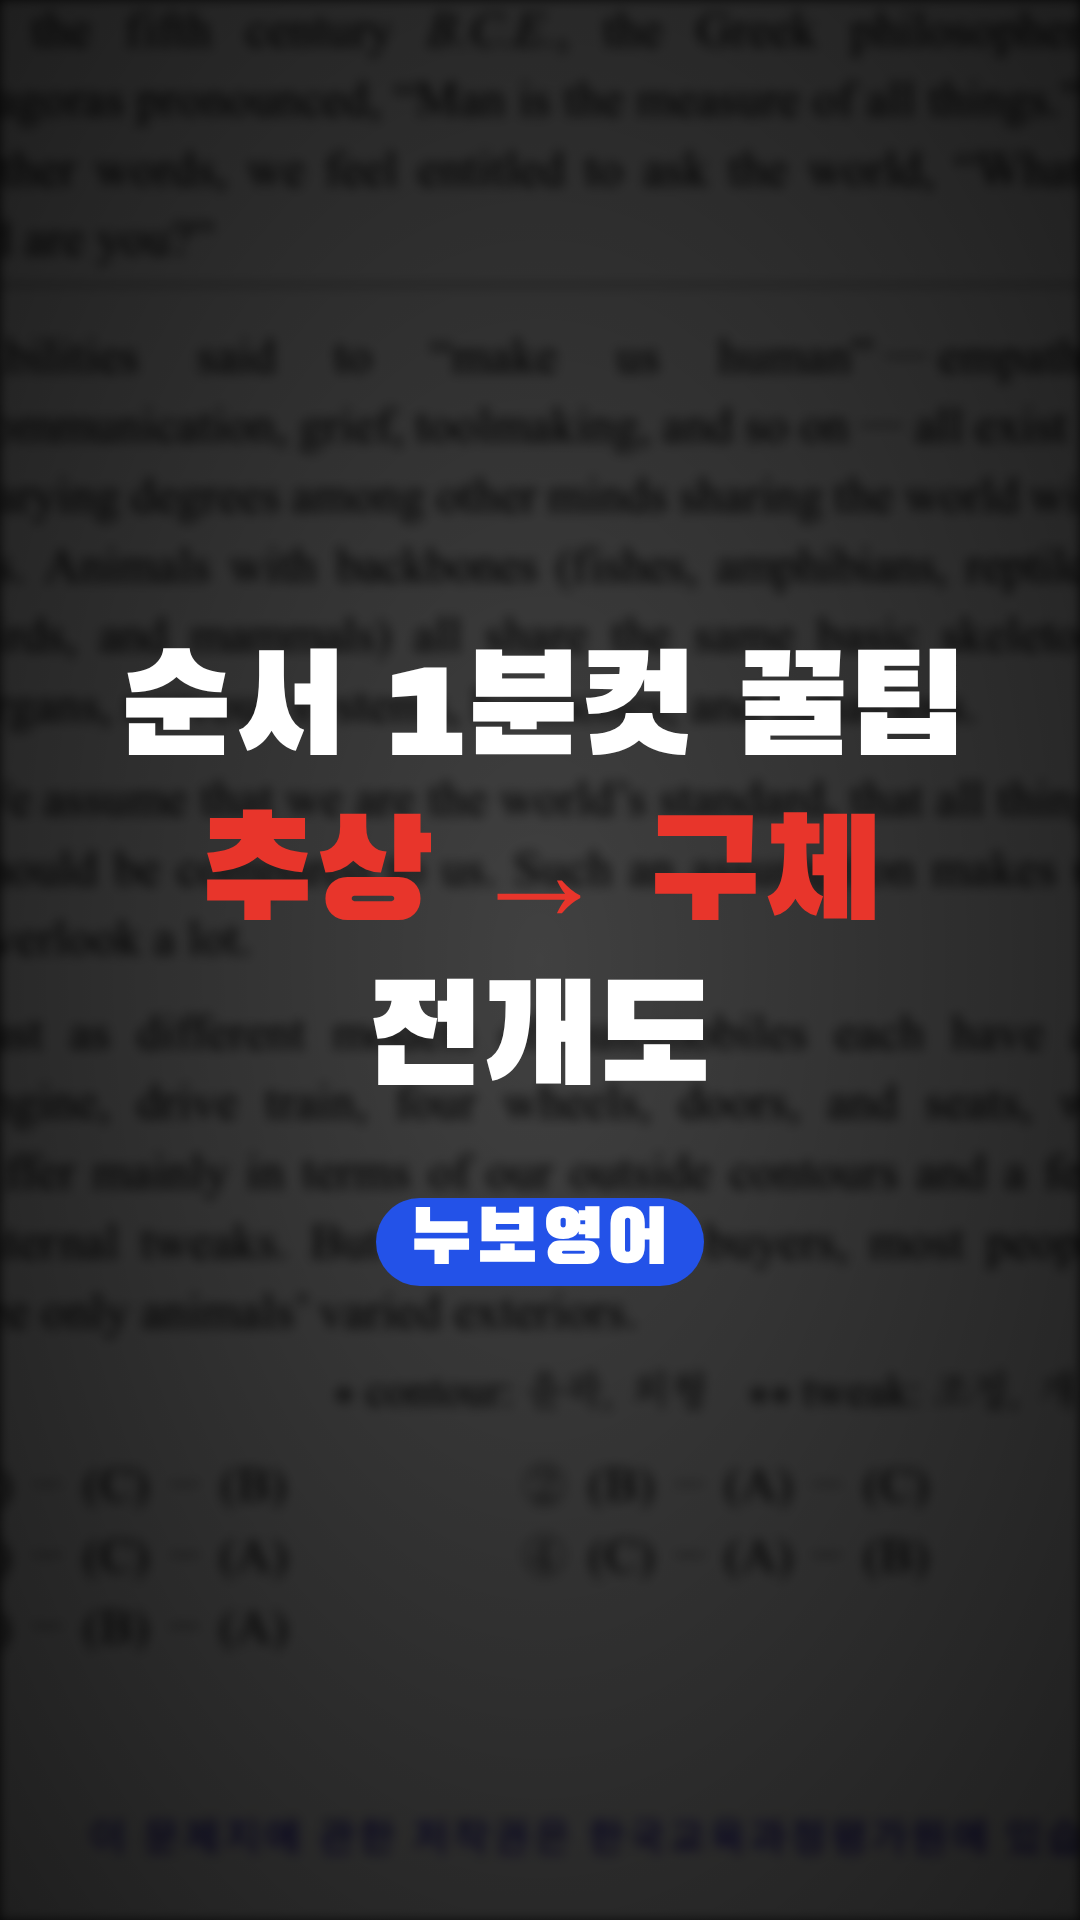
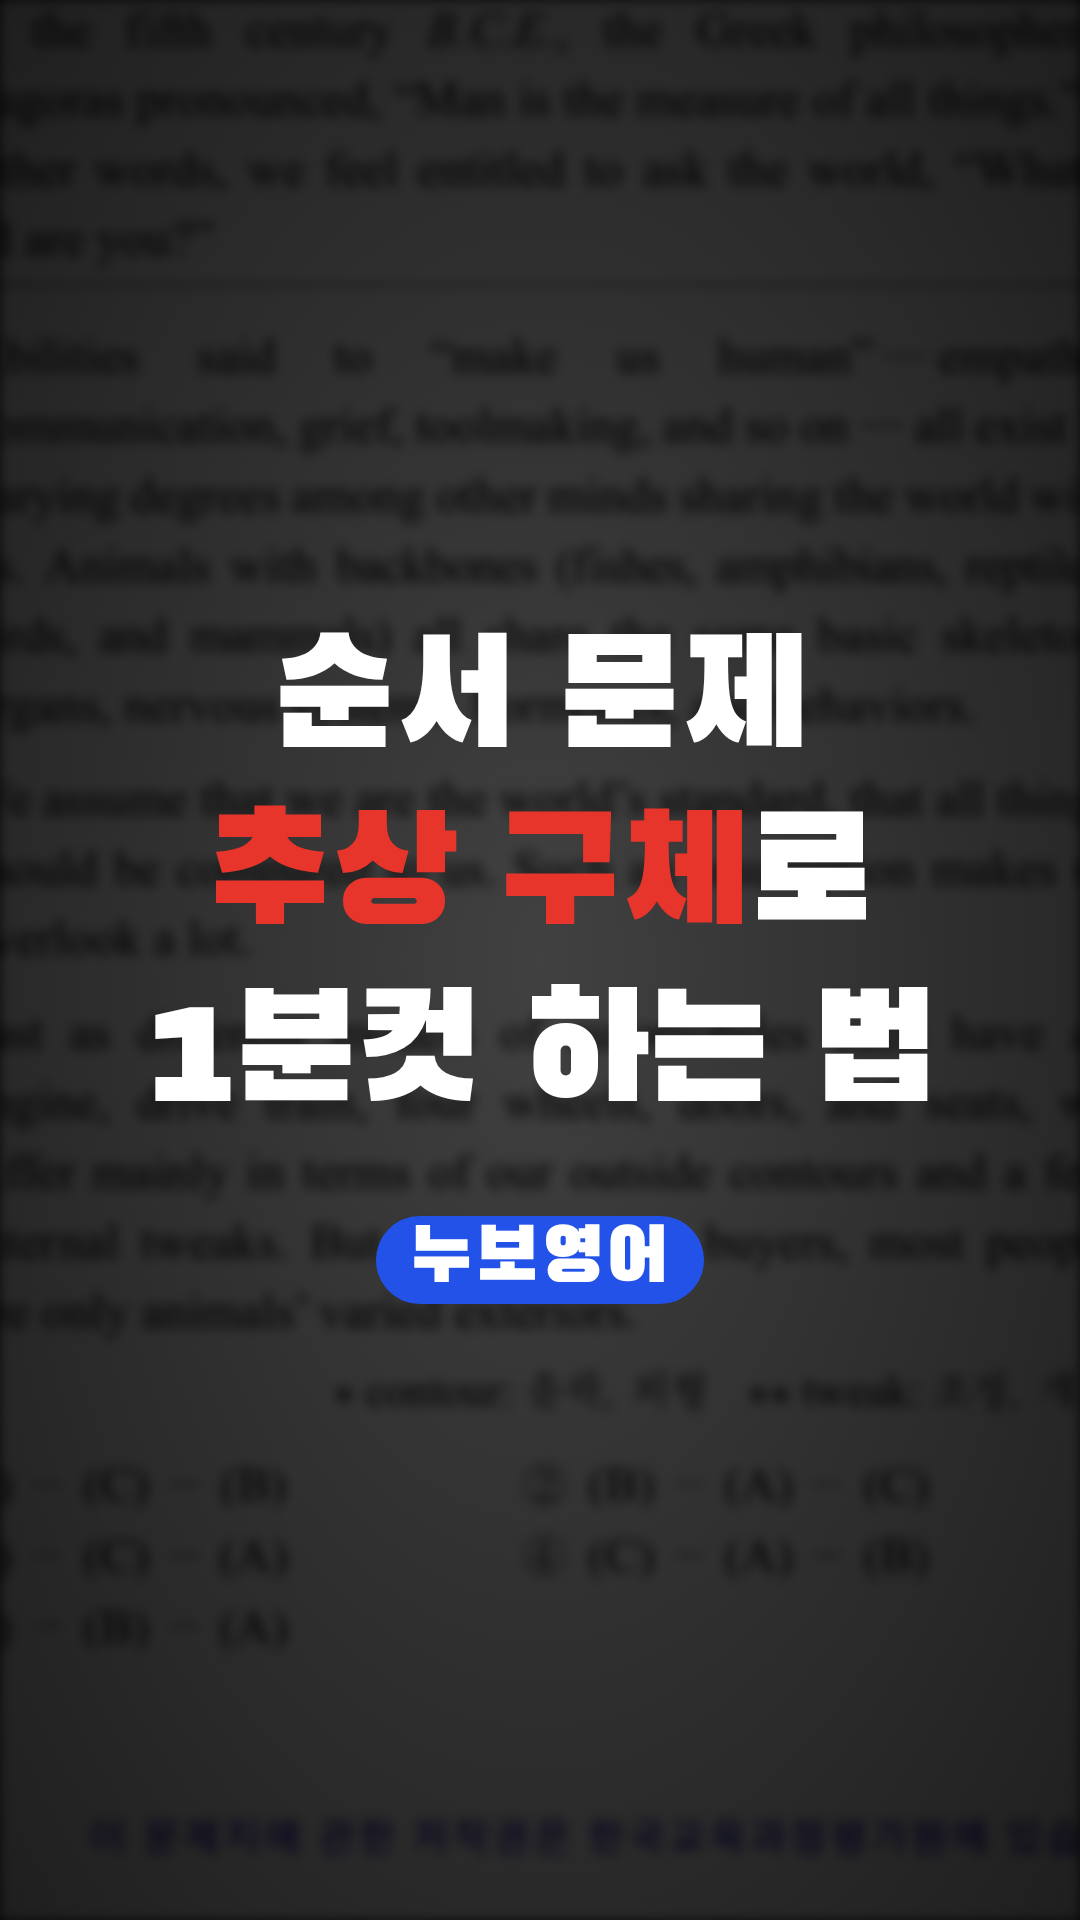
Order reel cover: 순서 문제 추상 구체로 1분컷 하는 법
Claude-Session: https://claude.ai/code/session_01Rym27oCy7NFVPU9s4bdxz4

Changed region(s): [[0.1222, 0.3125, 0.8861, 0.5938], [0.3361, 0.625, 0.6722, 0.6875]]

diff --git a/motion/src/Root.tsx b/motion/src/Root.tsx
@@ -122,7 +122,7 @@ export const RemotionRoot: React.FC = () => (
     <Composition id="Rp7Reel" component={Annot} fps={30} width={1080} height={1920} durationInFrames={Math.round(rp7.total * 30)}
       defaultProps={{video: 'rp7fx.mp4', look: 'C', title: '순서 1분컷 꿀팁\n{추상 → 구체} 전개도', titleSize: 104, marks: rp7.marks as Mark[], lines: rp7.lines, cards: rp7.cards, notes: [], cams: rp7.cams, chips: rp7.chips}} />
     <Composition id="Rp7CoverDark" component={Cover} fps={30} width={1080} height={1920} durationInFrames={1}
-      defaultProps={{dark: true, lines: ['순서 1분컷 꿀팁', '{추상 → 구체}', '전개도'], uniform: true, bg: 'cover_rp7_bg.jpg'}} />
+      defaultProps={{dark: true, lines: ['순서 문제', '{추상 구체}로', '1분컷 하는 법'], uniform: true, bg: 'cover_rp7_bg.jpg'}} />
     <Composition id="EmoReel" component={Emo} fps={FPS} width={1080} height={1920} durationInFrames={568}
       defaultProps={{video: 'rp_base.mp4', cues: [
         // clip 1: 혹시 올해 수능봐..? / 그렇다면 이 릴스가 / 수능 전 최고의 기회
